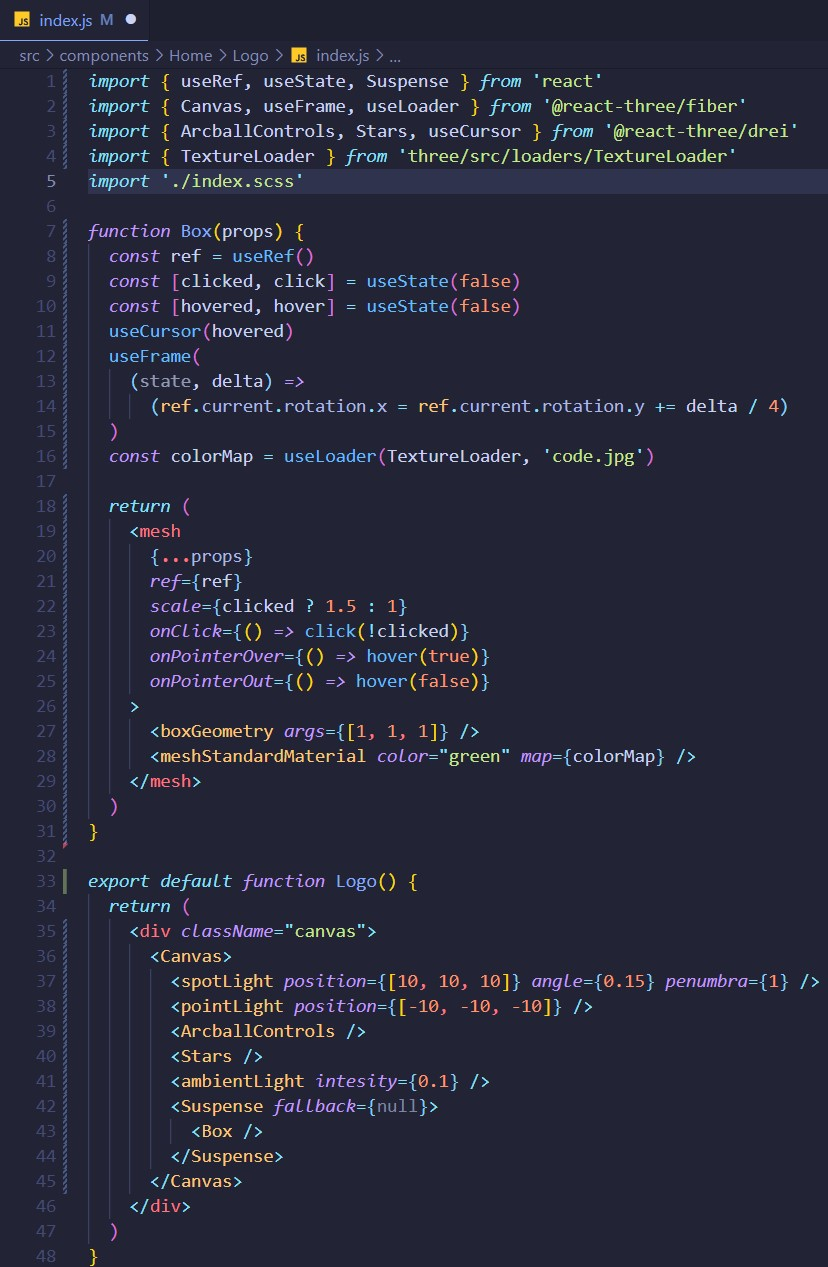
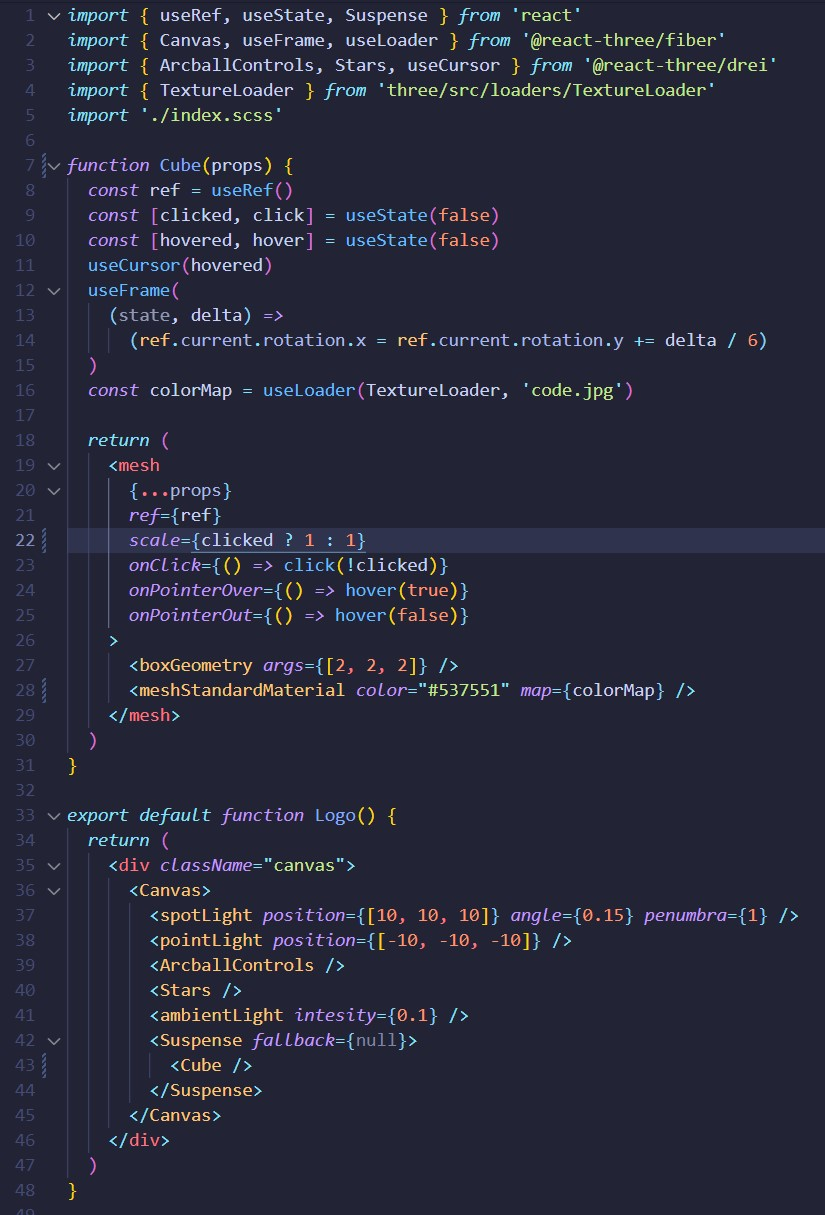
3d cube stylings

Changed region(s): [[0.0, 0.0, 1.0, 1.0], [0.6364, 0.5481, 0.8182, 0.6091], [0.8182, 0.2741, 0.9394, 0.335]]

diff --git a/src/components/Home/Logo/index.js b/src/components/Home/Logo/index.js
@@ -4,7 +4,7 @@ import { ArcballControls, Stars, useCursor } from '@react-three/drei'
 import { TextureLoader } from 'three/src/loaders/TextureLoader'
 import './index.scss'
 
-function Box(props) {
+function Cube(props) {
   const ref = useRef()
   const [clicked, click] = useState(false)
   const [hovered, hover] = useState(false)
@@ -19,13 +19,13 @@ function Box(props) {
     <mesh
       {...props}
       ref={ref}
-      scale={clicked ? 1.5 : 1}
+      scale={clicked ? 1 : 1}
       onClick={() => click(!clicked)}
       onPointerOver={() => hover(true)}
       onPointerOut={() => hover(false)}
     >
-      <boxGeometry args={[2, 2, 2]} />
-      <meshStandardMaterial color="#00735a" map={colorMap} />
+      <boxGeometry args={[1.7, 1.7, 1.7]} />
+      <meshBasicMaterial color="#006300" map={colorMap} />
     </mesh>
   )
 }
@@ -37,10 +37,18 @@ export default function Logo() {
         <spotLight position={[10, 10, 10]} angle={0.15} penumbra={1} />
         <pointLight position={[-10, -10, -10]} />
         <ArcballControls />
-        <Stars />
-        <ambientLight intesity={0.1} />
+        <Stars
+          radius={100}
+          depth={50}
+          count={2000}
+          factor={4}
+          saturation={0}
+          fade
+          speed={3}
+        />
+        <ambientLight intesity={0.5} />
         <Suspense fallback={null}>
-          <Box />
+          <Cube />
         </Suspense>
       </Canvas>
     </div>
